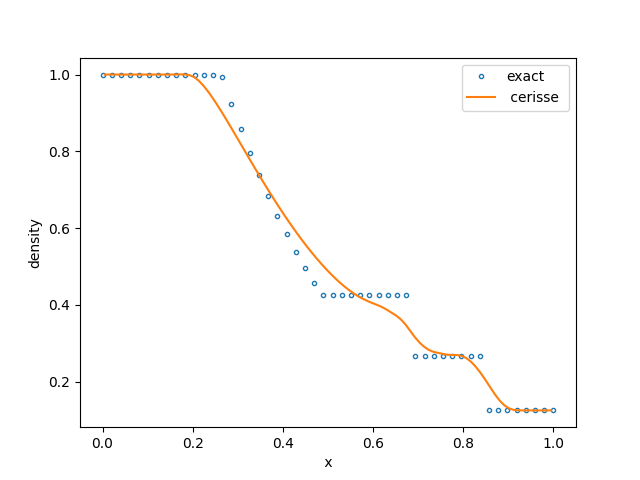
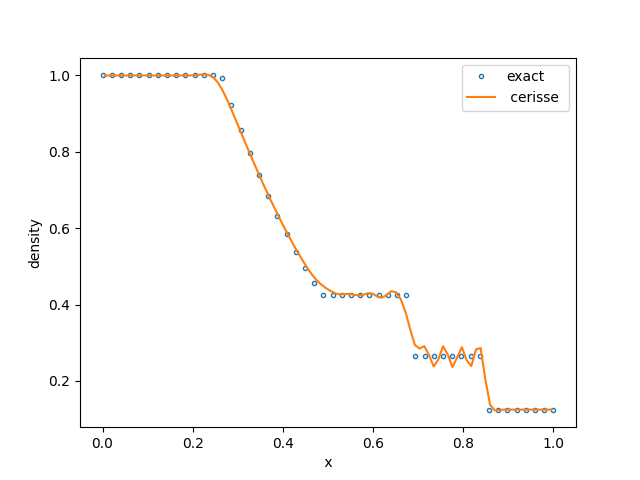
viscosity wall + transport2

diff --git a/src/rhs/Skew.h b/src/rhs/Skew.h
@@ -15,7 +15,7 @@
   }
 
 // int imask
-template <bool isAD, bool isIB, int order, typename cls_t>
+template <typename param, typename cls_t>
 class skew_t {
   public:
 
@@ -106,6 +106,7 @@ class skew_t {
       coefskew(1,3) = -Real(9.0/120.0);    
       coefskew(1,4) = Real(1.0/120.0);    
       
+      coefskew(2,2) = Real(37.0/120.0);
       coefskew(2,3) = Real(45.0/120.0);
       coefskew(2,4) = -Real(9.0/120.0);    
       coefskew(2,5) = Real(1.0/120.0);    
@@ -170,6 +171,13 @@ class skew_t {
 
   AMREX_GPU_HOST_DEVICE
   ~skew_t() {}
+
+  // parameters for damping and shock capturing   
+  static const int order = param::order;
+  // default values Cshock = 0.1 Cdamp = 0.016; 
+  Real Cshock = param::C2skew;
+  Real Cdamp  = param::C4skew; 
+
 
 #ifdef AMREX_USE_GPIBM  
   void inline eflux_ibm(const Geometry& geom, const MFIter& mfi,
@@ -236,7 +244,7 @@ class skew_t {
                   });                  
 #endif
       // dissipative fluxes 
-      if constexpr (isAD) {
+      if constexpr (param::dissipation) {
 #ifdef AMREX_USE_GPIBM               
         ParallelFor(bxgnodal,
                   [=,*this] AMREX_GPU_DEVICE(int i, int j, int k) noexcept {
@@ -505,8 +513,10 @@ class skew_t {
     }   
   }
   // .............................................................  
-   
+
+  
   // coefficents
+  //static const int ordermax = 6;
   typedef Array2D<Real, 0, order, 0, order> arrCoeff_t;
   arrCoeff_t coefskew;
   typedef Array1D<Real, 0, order> arrayNumCoef;
@@ -514,8 +524,6 @@ class skew_t {
 
   int halfsten = order / 2;
 
-  // parameters for damping and shock capturing   
-  const Real Cshock = 0.1,Cdamp = 0.016; //default 0.1 and 0.016
   // sensor variables
   const int NVARSEN=2;
   int NSEN[2];

diff --git a/exm/numerics/covo/prob.h b/exm/numerics/covo/prob.h
@@ -23,18 +23,28 @@ struct ProbParm {
   Real L = 0.3112;  // size of domain
 };
 
+// numerical method parameters
+struct methodparm_t {
+
+  public:
+
+  static constexpr bool dissipation = false;         // no dissipation
+  static constexpr int  order = 4;                  // order numerical scheme   
+  static constexpr Real C2skew=0.1,C4skew=0.0016;   // Skew symmetric default
+
+};
+
 inline Vector<std::string> cons_vars_names={"Xmom","Ymom","Zmom","Energy","Density"};
 inline Vector<int> cons_vars_type={1,2,3,0,0};
 
 typedef closures_dt<indicies_t, visc_suth_t, cond_suth_t,
-                    calorifically_perfect_gas_t<indicies_t>>
-    ProbClosures;
+                    calorifically_perfect_gas_t<indicies_t> > ProbClosures;
 
 template <typename cls_t > class user_source_t;
 
 
 //typedef rhs_dt<riemann_t<false, ProbClosures>, no_diffusive_t, no_source_t > ProbRHS;
-typedef rhs_dt<skew_t<false,false, 4, ProbClosures>, no_diffusive_t, no_source_t > ProbRHS;
+typedef rhs_dt<skew_t<methodparm_t, ProbClosures>, no_diffusive_t, no_source_t > ProbRHS;
 
 
 void inline inputs() {

diff --git a/src/cls/Closures.h b/src/cls/Closures.h
@@ -2,8 +2,12 @@
 #define CLOSURES_H_
 
 #include <Index.h>
+
+#include <NumParam.h>
 #include <Thermodynamics.h>
 #include <Transport.h>
+#include <Transport2.h>
+
 //#include <Turbulence.h>
 
 using namespace amrex;
@@ -12,8 +16,11 @@ using namespace amrex;
 // template <typename idx, typename Thermo, typename MolTransport, typename... others>
 // class closures_dt : public idx, public Thermo,  public MolTransport, public others... {
 
-template <typename idx, typename Visc, typename Cond, typename Thermo, typename... others>
-class closures_dt : public idx, public Cond, public Visc, public Thermo,  public others... {
+template <typename idx, typename Thermo, typename... others>
+class closures_dt : public idx, public Thermo, public others... {
+
+//template <typename idx, typename Visc, typename Cond, typename Thermo, typename... others>
+//class closures_dt : public idx, public Cond, public Visc, public Thermo,  public others... {
  private:
  public:
 

diff --git a/exm/numerics/riemann/prob.h b/exm/numerics/riemann/prob.h
@@ -21,6 +21,17 @@ struct ProbParm {
   Real u_r = 0.0;
 };
 
+// numerical method parameters
+struct methodparm_t {
+
+  public:
+
+  static constexpr bool dissipation = true;         // no dissipation
+  static constexpr int  order = 4;                  // order numerical scheme
+  static constexpr Real C2skew=0.5,C4skew=0.016;   // Skew symmetric default
+
+};
+
 inline Vector<std::string> cons_vars_names={"Xmom","Ymom","Zmom","Energy","Density"};
 inline Vector<int> cons_vars_type={1,2,3,0,0};
 
@@ -29,8 +40,9 @@ typedef closures_dt<indicies_t, visc_suth_t, cond_suth_t,
     ProbClosures;
 
 //typedef rhs_dt<riemann_t<false, ProbClosures>, no_diffusive_t, no_source_t    > ProbRHS;
+    
+typedef rhs_dt<skew_t<methodparm_t, ProbClosures>, no_diffusive_t, no_source_t > ProbRHS;
 
-typedef rhs_dt<skew_t<true,false, 4, ProbClosures>, no_diffusive_t, no_source_t > ProbRHS;
     
 
 void inline inputs() {

diff --git a/exm/numerics/shuosher/prob.h b/exm/numerics/shuosher/prob.h
@@ -21,6 +21,17 @@ struct ProbParm {
   // Real u_r = 0.0;
 };
 
+// numerical method parameters
+struct methodparm_t {
+
+  public:
+
+  static constexpr bool dissipation = true;         // no dissipation
+  static constexpr int  order = 4;                  // order numerical scheme
+  static constexpr Real C2skew=0.1,C4skew=0.016;   // Skew symmetric default
+
+};
+
 inline Vector<std::string> cons_vars_names={"Xmom","Ymom","Zmom","Energy","Density"};
 inline Vector<int> cons_vars_type={1,2,3,0,0};
 
@@ -29,7 +40,7 @@ typedef closures_dt<indicies_t, visc_suth_t, cond_suth_t,
     ProbClosures;
 
 //typedef rhs_dt<riemann_t<false, ProbClosures>, no_diffusive_t, no_source_t    > ProbRHS;
-typedef rhs_dt<skew_t<true,false, 4, ProbClosures>, no_diffusive_t, no_source_t > ProbRHS;
+typedef rhs_dt<skew_t<methodparm_t, ProbClosures>, no_diffusive_t, no_source_t > ProbRHS;
     
 
 void inline inputs() {

diff --git a/src/set/NumParam.h b/src/set/NumParam.h
@@ -3,6 +3,8 @@
 
 #include <AMReX_GpuContainers.H>
 
+using namespace amrex;
+
 // default values 
 struct defaultparm_t {
 
@@ -16,10 +18,10 @@ static constexpr bool ibm = true;
 static constexpr bool ibm = false;
 #endif
 
-static constexpr int order = 2;               // order of scheme
+static constexpr int order = 4;                   // order of scheme
 static constexpr Real C2skew=0.1,C4skew=0.0016;   // Skew symmetric default
-static constexpr Real conductivity = 0.0262;  // conductivity (for constant value)
-static constexpr Real viscosity   = 1.85e-5;  // viscosity    (for constant value)
+static constexpr Real conductivity = 0.0262;      // conductivity (for constant value)
+static constexpr Real viscosity   = 1.85e-5;      // viscosity    (for constant value)
 
 static constexpr bool solve_viscterms_only = false;
 

diff --git a/exm/viscwall/prob.h b/exm/viscwall/prob.h
@@ -50,8 +50,12 @@ struct methodparm_t {
 inline Vector<std::string> cons_vars_names={"Xmom","Ymom","Zmom","Energy","Density"};
 inline Vector<int> cons_vars_type={1,2,3,0,0};
 
-typedef closures_dt<indicies_t, visc_const_t<methodparm_t>, cond_const_t<methodparm_t>,
+//typedef closures_dt<indicies_t, visc_const_t<methodparm_t>, cond_const_t<methodparm_t>,
+//                    calorifically_perfect_gas_t<indicies_t>> ProbClosures;
+
+typedef closures_dt<indicies_t, transport_const_t<methodparm_t>,
                     calorifically_perfect_gas_t<indicies_t>> ProbClosures;
+
 
 template <typename cls_t > class user_source_t;
 

diff --git a/src/rhs/RHS.h b/src/rhs/RHS.h
@@ -2,13 +2,15 @@
 #define RHS_H_
 
 #include <Index.h>
+
+// numerical methods
 #include <Weno.h>
 #include <CentralKEEP.h>
 #include <Riemann.h>
 #include <Rusanov.h>
 #include <Skew.h>
-//#include <CentralDif.h>
 
+// viscous templates
 #include <DiffusionCD.h>
 #include <viscous.h>
 

diff --git a/exm/viscwall/plot.py b/exm/viscwall/plot.py
@@ -71,8 +71,8 @@ for (ys, vs) in zip(y, v):
 
   # cerisse
   plt.plot(vs, ys, label='cerisse')
-  plt.ylabel(' v ')
-  plt.xlabel(' y/H ', horizontalalignment='center')
+  plt.ylabel(' y/H ')
+  plt.xlabel(' v ', horizontalalignment='center')
 
   plt.legend()
   plt.show()

diff --git a/exm/numerics/README.md b/exm/numerics/README.md
@@ -27,12 +27,15 @@ Table with speed
 
 ### Riemann Problem
 
+The skew-symmetric scheme will not work without shock capturing (setting 
+dissipation to true `dissipation = true;` in the **prob.h** file)
 
-**Skew-symmetric** 4th order,Shock Capturing and high freq damping with constants **C=0.5** and **C=0.0016**  N=96
+
+**Skew-symmetric** 4th order, Shock Capturing and damping with constants **C2=0.1** and **C4=0.016**  N=96
 ![rienum1](images/num_rie_skew_damp.png)
 
 
-**Skew-symmetric** 4th order,Shock Capturing and high freq damping with constants **C=0.1** and **C=0.00016**  N=96
+**Skew-symmetric** 4th order,Shock Capturing and damping with constants **C2=0.5** and **C4=0.016**  N=96
 ![rienum2](images/num_rie_skew_damp2.png)
 
 
@@ -60,6 +63,9 @@ Table cost gcc version 11, 1 core, all CFL fix 0.3, times are in secs approximat
 ![shunum3](images/num_shu_muscl.png)
 
 **Skew**  solver 4th order  **N=256**, *Cs=0.1* *Cd=0.016*
+The artidcat at x0 is due to the zero-gradient BC  and it dissapears if the
+grid is refined or a fix BC is imposed
+
 ![shunum2](images/num_shu_skew.png)
 
 **Skew**  solver 4th order  **N=512**, *Cs=0.1* *Cd=0.016*

diff --git a/doc/chemistry.md b/doc/chemistry.md
@@ -1,0 +1,48 @@
+# Chemistry
+
+
+
+## PelePhysics
+
+
+Uses the [PelePhysics](https://pelephysics.readthedocs.io/en/latest/index.html)
+
+In the `GNUmakefile` file you need to need to set-up the options
+
+```bash 
+# PelePhysics
+EOS_MODEL := FUEGO
+TRANSPORT_MODEL := SIMPLE
+CHEMISTRY_MODEL := BurkeDryer
+```
+
+and make sure the following lines exists in that file
+
+```
+USE_PELEPHYSICS = TRUE
+PELE_PHYSICS_HOME = $(abspath ../../lib/PelePhysics)
+```
+
+
+### Available Mechanisms
+
+
+### Available EOS Models
+
+Using PelePhysics there are three EOS models: 
+
+- A simple GammaLaw model for a single component perfect gas
+
+- An ideal gas mixture model labeled **Fuego**
+
+- The Soave-Redlich-Kwong cubic equation of state for a general mixture of species 
+
+### Generate a New mechanism
+
+For all the available mechanisms, a Cantera yaml format is provided.
+If CHEMKIN fiels are present
+Pelephysics rely on Cantera’s ***ck2yaml*** utility to convert CHEMKIN files to the Cantera yaml format
+
+Check [PelePhysics Tutorial ](https://pelephysics.readthedocs.io/en/latest/EOS.htmlls\)
+
+
